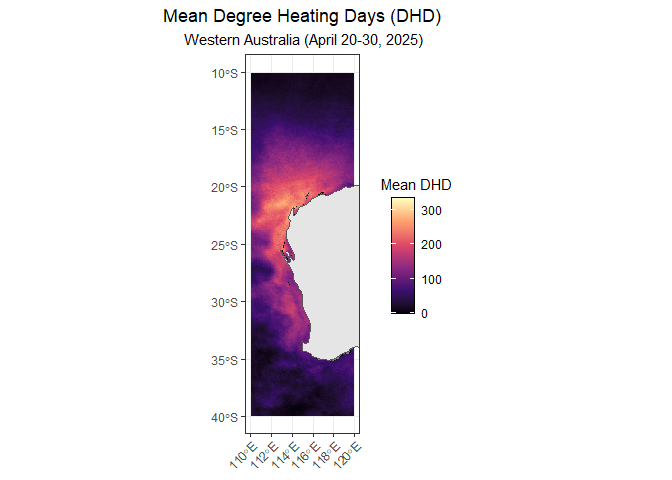
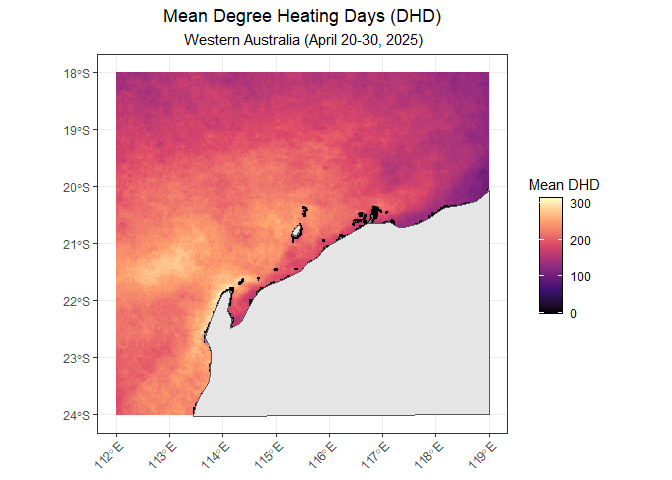
updating area of interest to north WA

diff --git a/AMSA2025/Notebooks/Accessing_IMOS_AUSTemp_DHD_data.md b/AMSA2025/Notebooks/Accessing_IMOS_AUSTemp_DHD_data.md
@@ -235,7 +235,7 @@ DHD data.
 
 ``` r
 # Define bounding box for Western Australia
-bb_wa <- c(110, 120, -40, -10)
+bb_wa <- c(112, 119, -24, -18)
 
 # Cropping mean DHD data using the bounding box
 dhd_mean_wa <- crop(dhd_mean, bb_wa)
@@ -245,9 +245,9 @@ dhd_mean_wa
 ```
 
     ## class       : SpatRaster 
-    ## size        : 1500, 500, 1  (nrow, ncol, nlyr)
+    ## size        : 300, 350, 1  (nrow, ncol, nlyr)
     ## resolution  : 0.02, 0.02  (x, y)
-    ## extent      : 110, 120, -40, -10  (xmin, xmax, ymin, ymax)
+    ## extent      : 112, 119, -24, -18  (xmin, xmax, ymin, ymax)
     ## coord. ref. : lon/lat WGS 84 (CRS84) (OGC:CRS84) 
     ## source(s)   : memory
     ## name        :     mean 
@@ -262,15 +262,20 @@ this cropped DHD data to create a map of mean DHD in Western Australia.
 ``` r
 # First we will get a map of Australia
 aus <- ne_countries(country = "Australia", scale = "medium",
-                    returnclass = "sf")
+                    returnclass = "sf") |> 
+  # Cropping map to match the extent of the DHD WA data
+  st_crop(dhd_mean_wa)
 ```
+
+    ## Warning: attribute variables are assumed to be spatially constant throughout
+    ## all geometries
 
 Now we have all components to create a map of mean DHD in Western
 Australia.
 
 ``` r
 ggplot()+
-  geom_spatraster(data = dhd_mean)+
+  geom_spatraster(data = dhd_mean_wa)+
   geom_sf(data = aus)+
   # Customizing the color scale
   scale_fill_viridis_c(option = "A", name = "Mean DHD")+
@@ -278,7 +283,7 @@ ggplot()+
   labs(x = NULL, y = NULL, 
        title = "Mean Degree Heating Days (DHD)", 
        subtitle = " Western Australia (April 20-30, 2025)")+
-  lims(x = c(110, 120), y = c(-40, -10))+
+  # lims(x = c(110, 120), y = c(-40, -10))+
   theme_bw()+
   # Formatting legend
   theme(legend.title = element_text(hjust = 0.5),
@@ -287,8 +292,6 @@ ggplot()+
         plot.title = element_text(hjust = 0.5), 
         plot.subtitle = element_text(hjust = 0.5))
 ```
-
-    ## <SpatRaster> resampled to 500742 cells.
 
 ![](figures/unnamed-chunk-9-1.png)<!-- -->
 
